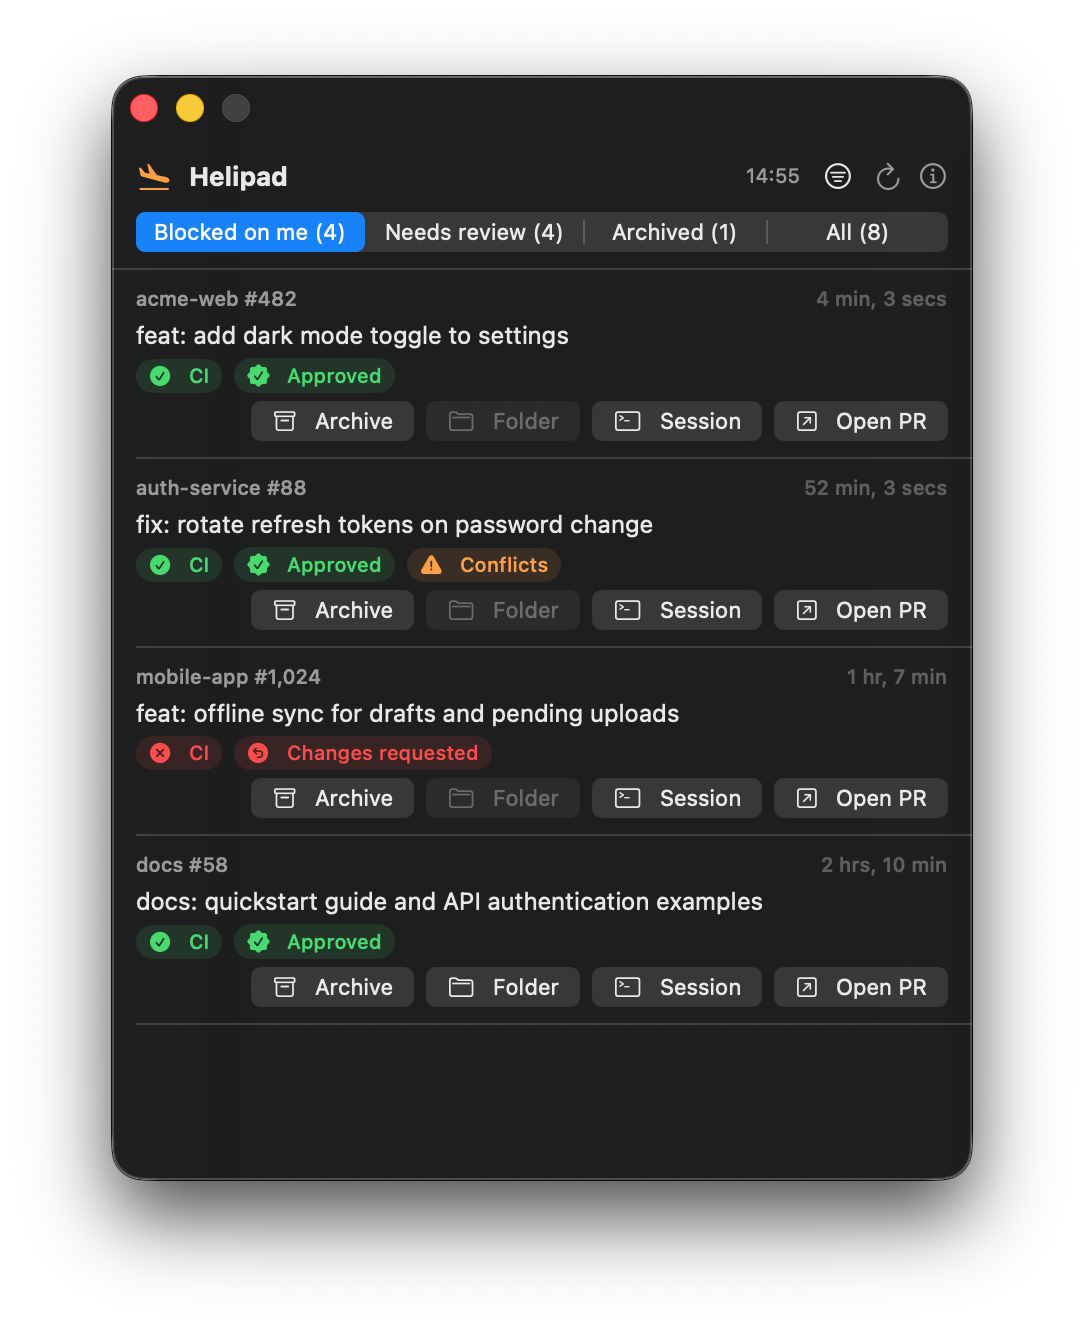
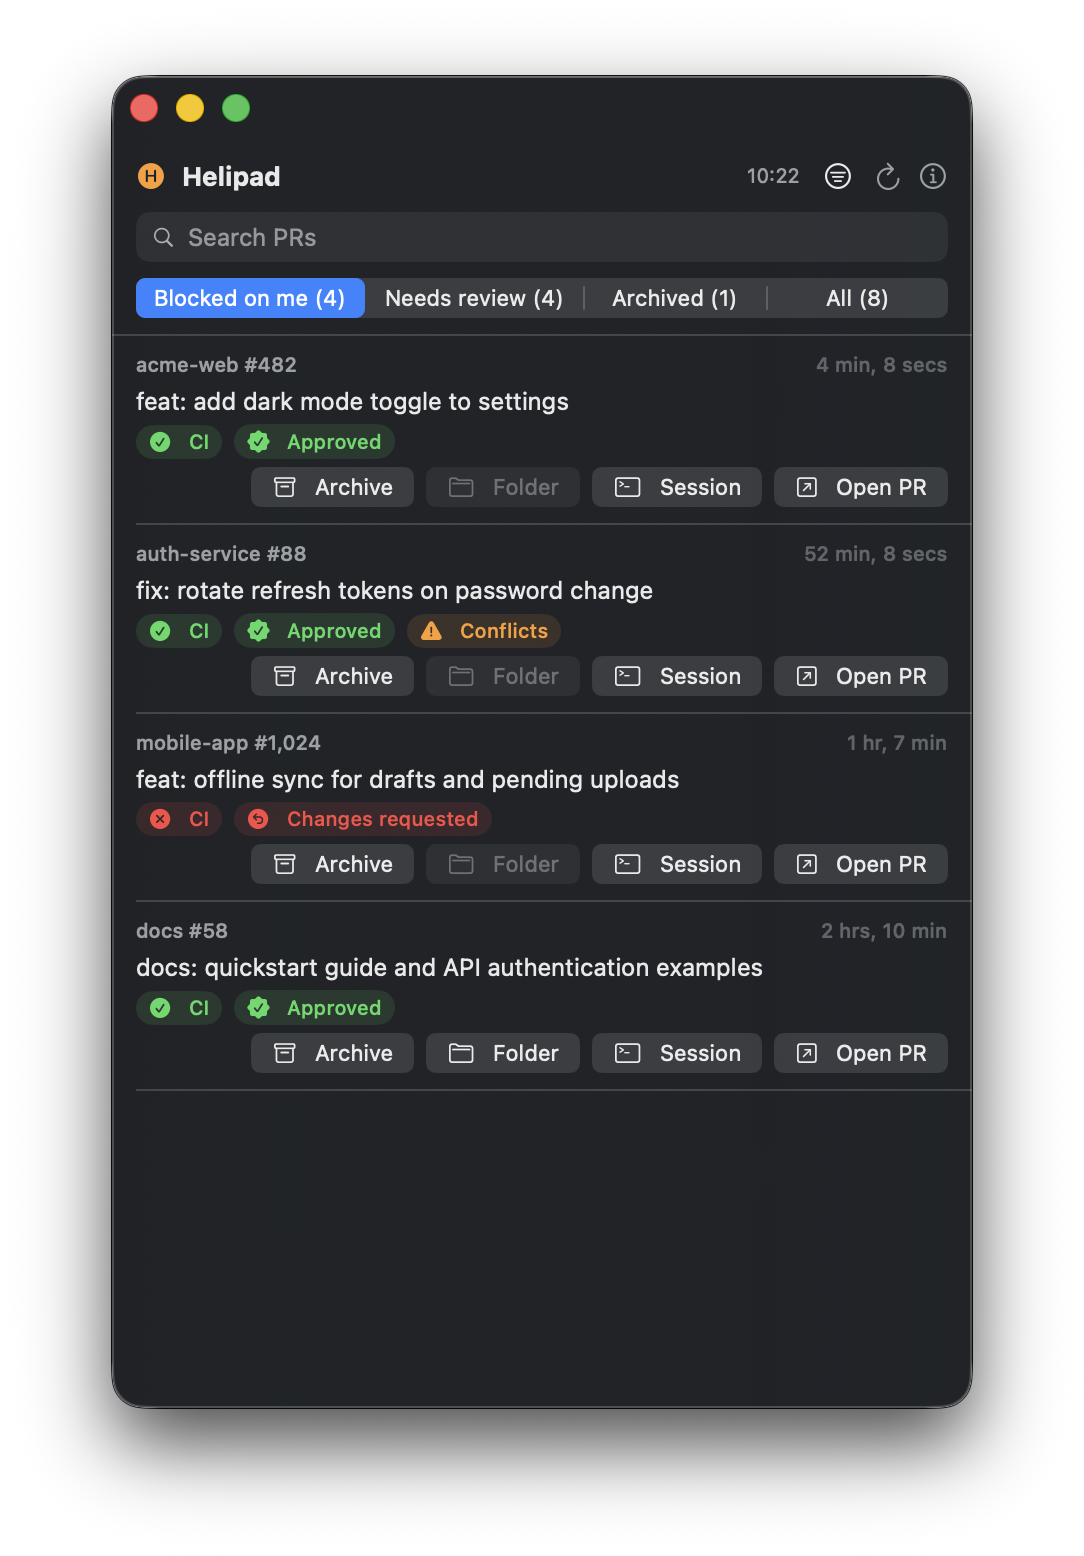
feat: notify when a PR becomes blocked on you
A macOS notification fires once per PR entering the blocked-on-me state
(approved or changes requested); clicking it opens the PR. Notified URLs
persist in UserDefaults so refreshes, pagination, and restarts never
re-fire, and the first-ever run seeds the existing backlog silently.
A PR that leaves the blocked state and re-enters it notifies again.

Also: site copy now leads with the blocked-on-you angle, README gains a
Notifications section, fresh screenshot.

diff --git a/Sources/Helipad/Notifier.swift b/Sources/Helipad/Notifier.swift
@@ -1,0 +1,50 @@
+import AppKit
+import UserNotifications
+
+/// Posts a user notification when a PR becomes blocked on the author.
+/// Only active inside the .app bundle — UNUserNotificationCenter traps in
+/// bare SwiftPM executables, which have no bundle identifier.
+final class Notifier: NSObject, UNUserNotificationCenterDelegate {
+    static let shared = Notifier()
+    private let isAvailable = Bundle.main.bundleIdentifier != nil
+
+    func start() {
+        guard isAvailable else { return }
+        let center = UNUserNotificationCenter.current()
+        center.delegate = self
+        center.requestAuthorization(options: [.alert, .sound]) { _, _ in }
+    }
+
+    func notifyBlocked(_ pr: PullRequest) {
+        guard isAvailable else { return }
+        let content = UNMutableNotificationContent()
+        content.title = "PR blocked on you"
+        content.subtitle = "\(pr.repoShortName) #\(pr.number)"
+        content.body = pr.title
+        content.sound = .default
+        content.userInfo = ["url": pr.url]
+        let request = UNNotificationRequest(identifier: pr.url, content: content, trigger: nil)
+        UNUserNotificationCenter.current().add(request)
+    }
+
+    // Show banners even while the panel is frontmost.
+    func userNotificationCenter(
+        _ center: UNUserNotificationCenter,
+        willPresent notification: UNNotification,
+        withCompletionHandler completionHandler: @escaping (UNNotificationPresentationOptions) -> Void
+    ) {
+        completionHandler([.banner, .sound])
+    }
+
+    // Clicking the notification opens the PR.
+    func userNotificationCenter(
+        _ center: UNUserNotificationCenter,
+        didReceive response: UNNotificationResponse,
+        withCompletionHandler completionHandler: @escaping () -> Void
+    ) {
+        if let url = (response.notification.request.content.userInfo["url"] as? String).flatMap(URL.init) {
+            NSWorkspace.shared.open(url)
+        }
+        completionHandler()
+    }
+}

diff --git a/Sources/Helipad/PRStore.swift b/Sources/Helipad/PRStore.swift
@@ -26,6 +26,15 @@ final class PRStore: ObservableObject {
     static let refreshInterval: TimeInterval = 300
     private static let archivedKey = "archivedPRs"
     private static let filtersKey = "statusFilters"
+    private static let notifiedKey = "notifiedBlockedPRs"
+
+    /// URLs already notified as blocked-on-me; persisted so neither the
+    /// periodic refresh nor an app restart fires the same PR twice.
+    private var notifiedBlockedURLs: Set<String>
+    /// False only on a first-ever run, where the existing backlog of blocked
+    /// PRs is seeded silently instead of firing a notification per PR.
+    private var notificationsSeeded: Bool
+    private var armNotificationsOnNextRefresh = false
 
     /// PRs filtered by the user's custom filter selection ("All PRs" tab).
     var activePRs: [PullRequest] {
@@ -51,8 +60,13 @@ final class PRStore: ObservableObject {
         if isDemo {
             archivedURLs = DemoData.archivedURLs
             enabledFilters = Set(PullRequest.Status.allCases)
+            notifiedBlockedURLs = []
+            notificationsSeeded = true
             return
         }
+        let notified = UserDefaults.standard.stringArray(forKey: Self.notifiedKey)
+        notifiedBlockedURLs = Set(notified ?? [])
+        notificationsSeeded = notified != nil
         // "dismissedPRs" is the legacy key from when archiving was "Remove"
         let stored = UserDefaults.standard.stringArray(forKey: Self.archivedKey)
             ?? UserDefaults.standard.stringArray(forKey: "dismissedPRs")
@@ -108,6 +122,10 @@ final class PRStore: ObservableObject {
     /// Reloads the first page; further pages load on demand via loadMore().
     func refresh() {
         guard !isLoading, !isDemo else { return }
+        if armNotificationsOnNextRefresh {
+            notificationsSeeded = true
+            armNotificationsOnNextRefresh = false
+        }
         isLoading = true
         Task.detached(priority: .userInitiated) {
             do {
@@ -121,6 +139,7 @@ final class PRStore: ObservableObject {
                     self.errorMessage = nil
                     self.isLoading = false
                     self.autoFillCount = 0
+                    self.notifyNewlyBlocked()
                     self.fillIfNeeded()
                 }
             } catch {
@@ -146,6 +165,7 @@ final class PRStore: ObservableObject {
                     self.hasMore = self.cursor != nil
                     self.isLoadingMore = false
                     self.loadMoreFailures = 0
+                    self.notifyNewlyBlocked()
                     self.fillIfNeeded()
                 }
             } catch {
@@ -161,6 +181,30 @@ final class PRStore: ObservableObject {
                 }
             }
         }
+    }
+
+    /// Fires one notification per PR newly blocked on the author.
+    /// A URL leaves the notified set only when the PR is actually loaded and
+    /// no longer blocked (so it can notify again on a future re-block);
+    /// mere absence — a refresh resetting to page one, or an unloaded page —
+    /// never drops it, which is what prevents duplicate notifications.
+    private func notifyNewlyBlocked() {
+        let blockedURLs = Set(blockedOnMePRs.map(\.url))
+        if !notificationsSeeded {
+            // First-ever run: adopt the existing backlog silently. Arm only
+            // on the next refresh so the auto-fill pages of this first load
+            // seed too instead of notifying.
+            notifiedBlockedURLs.formUnion(blockedURLs)
+            armNotificationsOnNextRefresh = true
+        } else {
+            for pr in blockedOnMePRs where !notifiedBlockedURLs.contains(pr.url) {
+                Notifier.shared.notifyBlocked(pr)
+                notifiedBlockedURLs.insert(pr.url)
+            }
+            let seenUnblocked = Set(prs.map(\.url)).subtracting(blockedURLs)
+            notifiedBlockedURLs.subtract(seenUnblocked)
+        }
+        UserDefaults.standard.set(Array(notifiedBlockedURLs), forKey: Self.notifiedKey)
     }
 
     /// Filters can hide most of a page, leaving a tab too short to scroll —

diff --git a/docs/index.html b/docs/index.html
@@ -4,8 +4,8 @@
 <meta charset="utf-8">
 <meta name="viewport" content="width=device-width, initial-scale=1">
 <link rel="icon" type="image/png" href="icon.png">
-<title>Helipad — your Claude Code PRs, always on screen</title>
-<meta name="description" content="A floating macOS panel that shows all your open Claude Code-generated pull requests with CI and review status, and jumps you back into the Claude session behind each PR.">
+<title>Helipad — see which PRs are blocked on you</title>
+<meta name="description" content="A floating macOS panel that shows which of your Claude Code pull requests are blocked on you — approved and ready to merge, or sent back with changes requested — and notifies you the moment a new one is.">
 <style>
   :root {
     --bg: #0d0f14;
@@ -101,7 +101,7 @@
 <header class="wrap">
   <img src="icon.png" alt="Helipad icon" width="120" height="120" style="border-radius: 27px;">
   <h1>Helipad</h1>
-  <p class="tagline">A floating macOS panel with every open PR Claude Code created for you — CI state, review state, and a one-click jump back into the Claude session that wrote it.</p>
+  <p class="tagline">A floating macOS panel that shows which of your Claude Code PRs are blocked on you — approved and ready to merge, or sent back with changes requested — with a notification the moment a new one is.</p>
   <div class="cta">
     <a class="btn btn-primary" href="https://github.com/ronreiter/helipad/releases/latest/download/Helipad.dmg">⬇&nbsp; Download for macOS</a>
     <a class="btn btn-secondary" href="https://github.com/ronreiter/helipad">View on GitHub</a>
@@ -118,8 +118,9 @@
 <section class="wrap">
   <p style="color: var(--text); font-size: 24px; line-height: 1.55;">
     When Claude Code agents are opening pull requests for you all day — across many repos, from many sessions —
-    the bottleneck becomes <em>you</em>: noticing which PRs are green, which need another round, and which agent
-    session to jump back into. Helipad keeps that list hovering on top of everything, always current.
+    the bottleneck becomes <em>you</em>: the PRs that are approved and waiting for your merge, or bounced back
+    with changes requested. Helipad keeps exactly that list — the PRs blocked on <em>you</em> — hovering on top
+    of everything, and notifies you the moment a new one joins it.
   </p>
 </section>
 
@@ -146,6 +147,11 @@
       <div class="icon"><svg xmlns="http://www.w3.org/2000/svg" width="32" height="32" viewBox="0 0 24 24" fill="none" stroke="currentColor" stroke-width="2" stroke-linecap="round" stroke-linejoin="round" class="icon icon-tabler icons-tabler-outline icon-tabler-terminal-2" ><path stroke="none" d="M0 0h24v24H0z" fill="none"/><path d="M8 9l3 3l-3 3" /><path d="M13 15l3 0" /><path d="M3 4m0 2a2 2 0 0 1 2 -2h14a2 2 0 0 1 2 2v12a2 2 0 0 1 -2 2h-14a2 2 0 0 1 -2 -2z" /></svg></div>
       <h3>Jump into the session</h3>
       <p>The Session button opens the Claude Code session behind a PR — attaching live with <code>claude attach</code> if the agent is still running, or resuming it if finished, using Claude Code's own job-to-PR links.</p>
+    </div>
+    <div class="card">
+      <div class="icon"><svg xmlns="http://www.w3.org/2000/svg" width="32" height="32" viewBox="0 0 24 24" fill="none" stroke="currentColor" stroke-width="2" stroke-linecap="round" stroke-linejoin="round" class="icon icon-tabler icons-tabler-outline icon-tabler-bell" ><path stroke="none" d="M0 0h24v24H0z" fill="none"/><path d="M10 5a2 2 0 1 1 4 0a7 7 0 0 1 4 6v3a4 4 0 0 0 2 3h-16a4 4 0 0 0 2 -3v-3a7 7 0 0 1 4 -6" /><path d="M9 17v1a3 3 0 0 0 6 0v-1" /></svg></div>
+      <h3>Notifies when you're the blocker</h3>
+      <p>The moment a PR becomes blocked on you — approved, or changes requested — a macOS notification fires. Click it to open the PR. Each PR notifies exactly once; refreshes and restarts never repeat it.</p>
     </div>
     <div class="card">
       <div class="icon"><svg xmlns="http://www.w3.org/2000/svg" width="32" height="32" viewBox="0 0 24 24" fill="none" stroke="currentColor" stroke-width="2" stroke-linecap="round" stroke-linejoin="round" class="icon icon-tabler icons-tabler-outline icon-tabler-pin" ><path stroke="none" d="M0 0h24v24H0z" fill="none"/><path d="M15 4.5l-4 4l-4 1.5l-1.5 1.5l7 7l1.5 -1.5l1.5 -4l4 -4" /><path d="M9 15l-4.5 4.5" /><path d="M14.5 4l5.5 5.5" /></svg></div>

diff --git a/Sources/Helipad/main.swift b/Sources/Helipad/main.swift
@@ -65,6 +65,9 @@ final class AppDelegate: NSObject, NSApplicationDelegate {
         menu.addItem(NSMenuItem(title: "Quit", action: #selector(NSApplication.terminate(_:)), keyEquivalent: "q"))
         statusItem.menu = menu
 
+        if !store.isDemo {
+            Notifier.shared.start()
+        }
         store.start()
         panel.orderFrontRegardless()
     }

diff --git a/README.md b/README.md
@@ -22,6 +22,10 @@ Each row has four actions:
 
 A filter menu (funnel icon) controls which statuses are shown; by default only PRs needing your attention appear (approved, changes requested, CI failed, conflicts). The first page loads immediately and more PRs load as you scroll. The list refreshes automatically every 5 minutes.
 
+## Notifications
+
+When a PR becomes blocked on you (approved and ready to merge, or sent back with changes requested), Helipad posts a macOS notification — click it to open the PR. Each PR notifies only once: refreshes, scrolling, and app restarts never re-fire, and the first launch adopts your existing backlog silently instead of blasting a notification per PR. If a PR leaves the blocked state (e.g. you re-request review) and later becomes blocked again, it notifies again. Notifications require the bundled app from the DMG; bare `swift build` binaries have no bundle identifier, so macOS can't deliver notifications for them.
+
 ## Requirements
 
 - macOS 13+